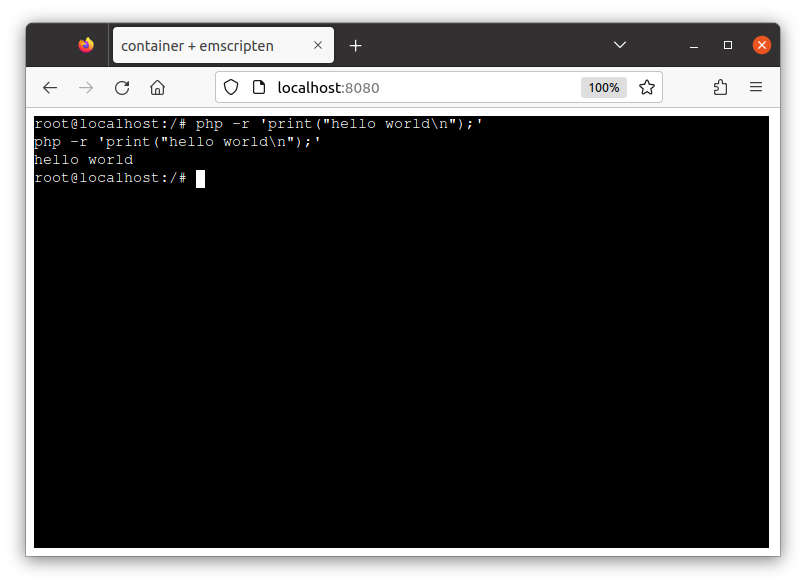
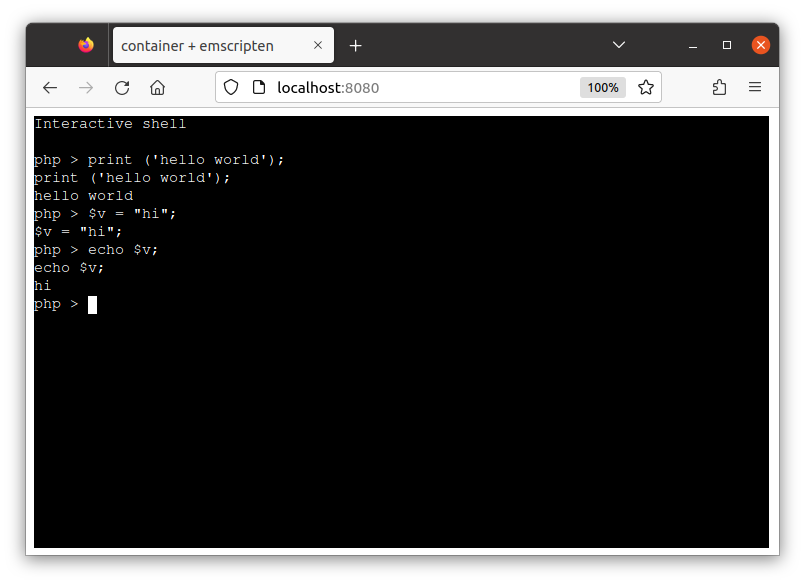
update docs

diff --git a/examples/php/README.md b/examples/php/README.md
@@ -7,6 +7,9 @@ $ cat <<EOF | docker buildx build -t php-ubuntu-riscv64 --platform=linux/riscv64
 FROM riscv64/ubuntu:22.04
 ENV DEBIAN_FRONTEND=noninteractive
 RUN apt-get update && apt-get install -y php
+
+ENTRYPOINT ["php"]
+CMD ["-a"]
 EOF
 ```
 
@@ -21,9 +24,11 @@ $ c2w php-ubuntu-riscv64 /tmp/out/out.wasm
 Run it on the runtime:
 
 ```
-$ wasmtime /tmp/out/out.wasm php -r 'print("hello world\n");'
+$ wasmtime -- /tmp/out/out.wasm -- -r 'print("hello world\n");'
 hello world
 ```
+
+This passes `-r 'print("hello world\n");'"` argument to `php` (`ENTRYPOINT` of this image) and `hello world` is printed.
 
 ## Run on browser
 
@@ -42,5 +47,8 @@ $ docker run --rm -p 8080:80 \
          -v "/tmp/phpjs/xterm-pty.conf:/usr/local/apache2/conf/extra/xterm-pty.conf:ro" \
          --entrypoint=/bin/sh httpd -c 'echo "Include conf/extra/xterm-pty.conf" >> /usr/local/apache2/conf/httpd.conf && httpd-foreground'
 ```
+
+This runs the image on browser.
+We specified `php` as the `ENTRYPOINT` with flag `-a` as `CMD` of this image so php REPL starts (you might need to wait a while untils the prompt is printed).
 
 ![php with emscripten](../../docs/images/php-hello.png)

diff --git a/examples/python/README.md b/examples/python/README.md
@@ -6,6 +6,7 @@ Build a riscv64 python image:
 $ cat <<EOF | docker buildx build -t python-ubuntu-riscv64 --platform=linux/riscv64 --load -
 FROM riscv64/ubuntu:22.04
 RUN apt-get update && apt-get install -y python3
+ENTRYPOINT ["python3"]
 EOF
 ```
 
@@ -20,9 +21,11 @@ $ c2w python-ubuntu-riscv64 /tmp/out/out.wasm
 Run it on the runtime:
 
 ```
-$ wasmtime /tmp/out/out.wasm python3 -c "print ('hello world')"
+$ wasmtime -- /tmp/out/out.wasm -- -c "print ('hello world')"
 hello world
 ```
+
+This passes `-c "print ('hello world')"` argument to `python3` (`ENTRYPOINT` of this image) and `hello world` is printed.
 
 ## Run on browser
 
@@ -41,5 +44,8 @@ $ docker run --rm -p 8080:80 \
          -v "/tmp/pythonjs/xterm-pty.conf:/usr/local/apache2/conf/extra/xterm-pty.conf:ro" \
          --entrypoint=/bin/sh httpd -c 'echo "Include conf/extra/xterm-pty.conf" >> /usr/local/apache2/conf/httpd.conf && httpd-foreground'
 ```
+
+This runs the image on browser.
+We specified `python3` as the `ENTRYPOINT` of this image so python REPL starts (you might need to wait a while untils the prompt is printed).
 
 ![python with emscripten](../../docs/images/python-hello.png)

diff --git a/examples/README.md b/examples/README.md
@@ -1,0 +1,9 @@
+# Exapmles 
+
+This directory contains advanced examples for container-to-wasm conversion and running the image on the wasm runtime and browser.
+
+Please refer to [README](./../README.md) for basic examples (e.g. Ubuntu on WASM and browser).
+
+- [`./python`](./python/): Running Python container on the wasm runtime and browser
+- [`./php`](./php/): Running PHP container on the wasm runtime and browser
+- [`./non-riscv64`](./non-riscv64/): Running non-riscv64 container on the wasm runtime and browser

diff --git a/examples/emscripten/README.md b/examples/emscripten/README.md
@@ -1,7 +1,7 @@
 # Running container on browser with emscripten and xterm-pty
 
 This is an example to run a container on browser.
-Please refer to README for details.
+Please refer to [README](../../README.md) for details.
 
 This example relies on [xterm-pty](https://github.com/mame/xterm-pty).
 Please refer to [Emscripten integration](https://github.com/mame/xterm-pty#emscripten-integration) section on the README for the detailed information about xterm-pty.

diff --git a/README.md b/README.md
@@ -1,3 +1,7 @@
+[[:arrow_down: **Download**]](https://github.com/ktock/container2wasm/releases)
+[[:book: **Command reference**]](#command-reference)
+[[:books: **Additional Documents**]](#additional-documents)
+
 # container2wasm: Container to WASM converter
 
 container2wasm is a container-to-wasm image converter that enables to run the container on WASM.
